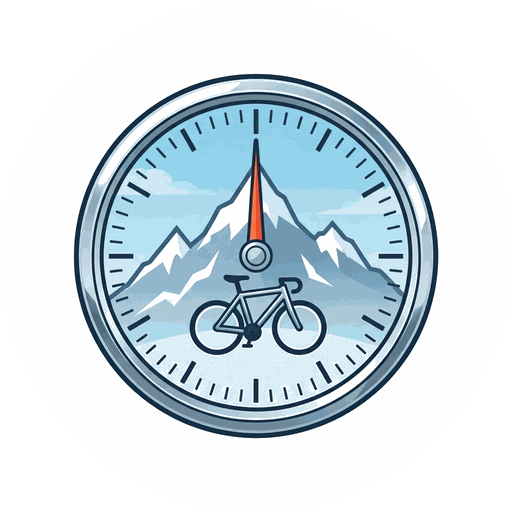
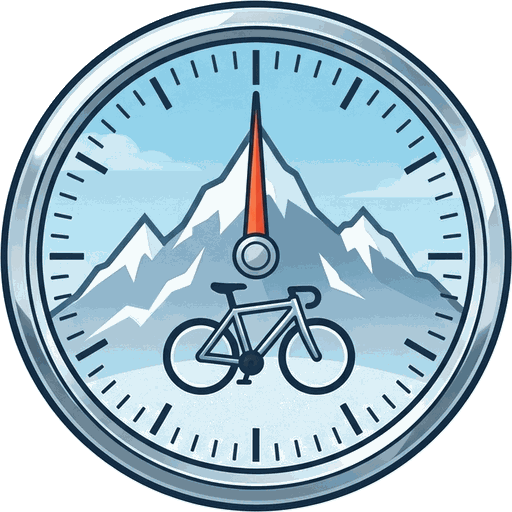
fix(collection): supprimer l'anneau blanc des 22 visuels et restaurer les 5 visuels valides de l'essai

diff --git a/Open_ride_linux/scripts/controle_visuels.py b/Open_ride_linux/scripts/controle_visuels.py
@@ -216,36 +216,69 @@ def normalize_image(
 ) -> None:
     """Normalise une image brute (p. ex. 1024x1024 livrée par Gemini) :
 
-    - Redimensionne en 512 × 512 avec filtre Lanczos
-    - Applique un masque circulaire si l'image n'est pas transparente
+    - Détecte le cercle du badge pour éliminer tout anneau blanc extérieur
+    - Recadre exactement sur le badge et redimensionne en 512 × 512 (Lanczos)
+    - Applique un masque circulaire transparent
     - Optimise la compression PNG sous max_kb (200 Ko)
     """
+    import math
     from PIL import Image, ImageDraw
 
     src_p = Path(src)
     dst_p = Path(dst)
     dst_p.parent.mkdir(parents=True, exist_ok=True)
 
-    with Image.open(src_p) as im:
-        im = im.convert("RGBA")
-        w, h = im.size
+    with Image.open(src_p) as raw_im:
+        im_rgb = raw_im.convert("RGB")
+        w, h = im_rgb.size
+        cx, cy = w // 2, h // 2
 
-        # Si l'image n'a pas de canal alpha effectif, découpe circulaire automatique
-        alpha_min = im.getchannel("A").getextrema()[0]
-        if alpha_min >= 255:
-            mask = Image.new("L", (w, h), 0)
-            draw = ImageDraw.Draw(mask)
-            # Cercle centré d'environ 85-88% de la taille
-            margin = int(w * 0.06)
-            draw.ellipse((margin, margin, w - margin, h - margin), fill=255)
-            im.putalpha(mask)
+        # Détection du rayon effectif du badge le long de 180 rayons
+        angles = [i * (2 * math.pi / 180) for i in range(180)]
+        radii: list[int] = []
+        for a in angles:
+            cos_a = math.cos(a)
+            sin_a = math.sin(a)
+            for r in range(int(min(w, h) * 0.49), int(min(w, h) * 0.25), -1):
+                px = int(cx + r * cos_a)
+                py = int(cy + r * sin_a)
+                if 0 <= px < w and 0 <= py < h:
+                    r_px, g_px, b_px = im_rgb.getpixel((px, py))
+                    # Fond clair / blanc / damier
+                    is_bg = (
+                        r_px > 215
+                        and g_px > 215
+                        and b_px > 215
+                        and abs(r_px - g_px) < 18
+                        and abs(r_px - b_px) < 18
+                    )
+                    if not is_bg:
+                        radii.append(r)
+                        break
 
-        im_resized = im.resize((target_size, target_size), Image.Resampling.LANCZOS)
+        if len(radii) >= 30:
+            radii.sort()
+            median_r = radii[len(radii) // 2] + 1
+            left = max(0, cx - median_r)
+            top = max(0, cy - median_r)
+            right = min(w, cx + median_r)
+            bottom = min(h, cy + median_r)
+            im_cropped = raw_im.crop((left, top, right, bottom)).convert("RGBA")
+        else:
+            im_cropped = raw_im.convert("RGBA")
 
-        # Sauvegarde optimisée
+        im_resized = im_cropped.resize((target_size, target_size), Image.Resampling.LANCZOS)
+
+        # Masque circulaire net
+        mask = Image.new("L", (target_size, target_size), 0)
+        draw = ImageDraw.Draw(mask)
+        draw.ellipse((0, 0, target_size, target_size), fill=255)
+        im_resized.putalpha(mask)
+
+        # Sauvegarde
         im_resized.save(dst_p, format="PNG", optimize=True)
 
-        # Si le fichier dépasse max_kb, quantisation 256 couleurs préservant l'alpha
+        # Si le fichier dépasse max_kb, quantisation FASTOCTREE préservant l'alpha
         if dst_p.stat().st_size > max_kb * 1024:
             q = im_resized.quantize(colors=256, method=Image.Quantize.FASTOCTREE)
             q.save(dst_p, format="PNG", optimize=True)
